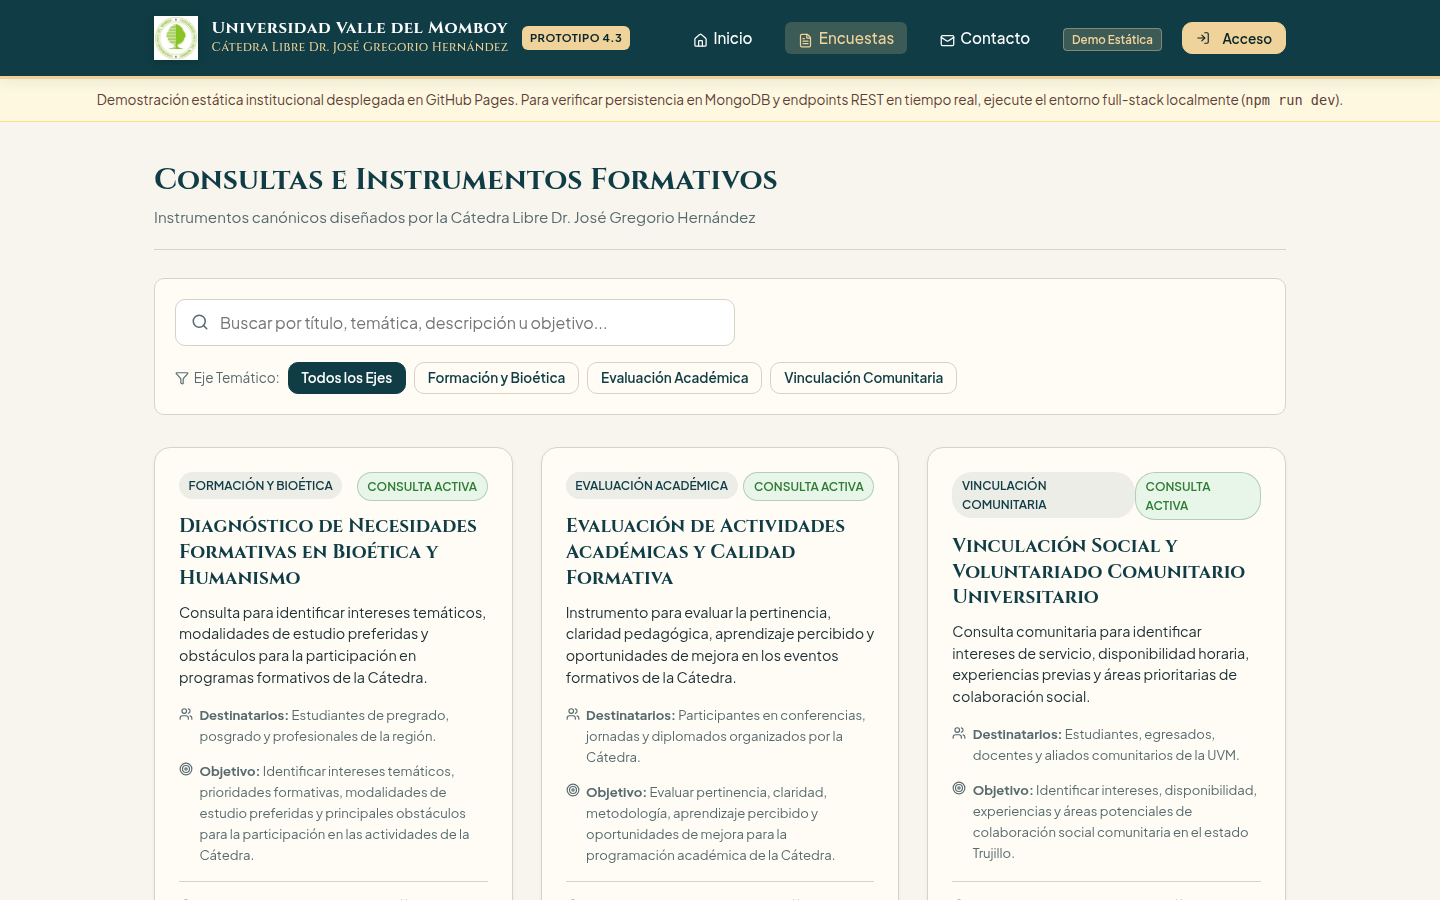
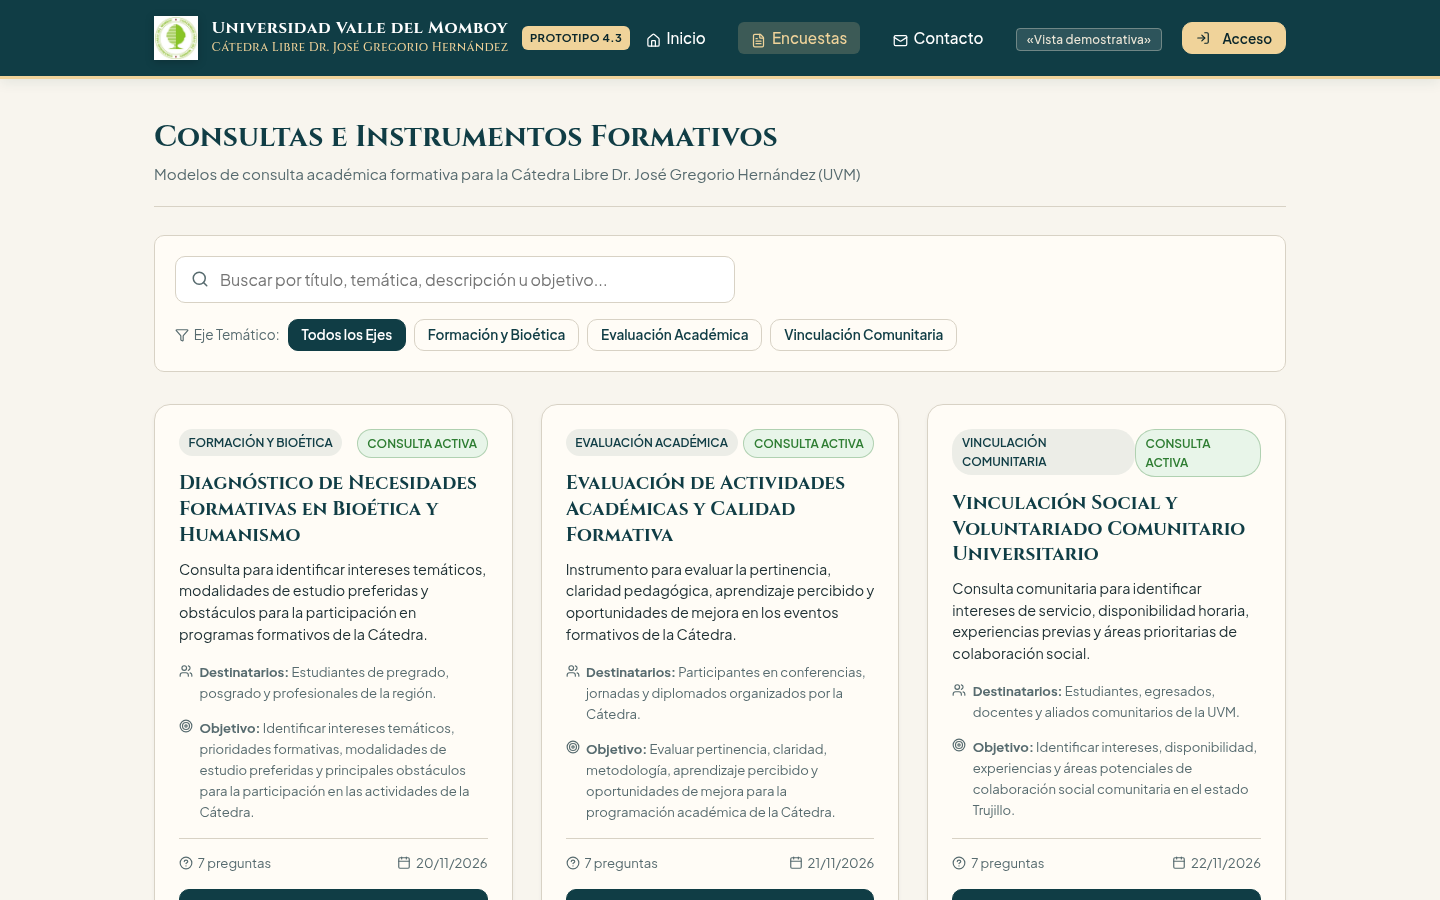
docs(qa): actualizar evidencias visuales, informe de auditoria y manifiesto de entrega tras optimizacion de experiencia publica

diff --git a/scripts/test-live-pages.js b/scripts/test-live-pages.js
@@ -143,7 +143,13 @@ async function testLive() {
     if (submitBtn) {
       console.log('[TestLive] Enviando respuesta de prueba...');
       await submitBtn.click();
-      await page.waitForTimeout(1500);
+      await page.waitForTimeout(2000);
+      const resultsTabBtn = await page.$('button:has-text("Resultados de la Consulta")');
+      if (resultsTabBtn) {
+        await resultsTabBtn.click();
+        await page.waitForTimeout(800);
+      }
+      await page.evaluate(() => window.scrollTo(0, 180));
       await page.screenshot({ path: path.join(evidenciasDir, 'live_05_results.png') });
       console.log('  ✓ live_05_results.png guardada');
 

diff --git a/docs/evidencias/QA_POST_MERGE_PR1.md b/docs/evidencias/QA_POST_MERGE_PR1.md
@@ -188,16 +188,29 @@ Para validar exhaustivamente la persistencia en MongoDB y la lógica del servido
 
 ---
 
-## 7. DICTAMEN DE AUDITORÍA Y CIERRE
+## 7. OPTIMIZACIÓN DE LA EXPERIENCIA PÚBLICA (DIRECTIVA JGH 4.3)
 
-Habiendo demostrado mediante telemetría verificable, pruebas automatizadas en navegador real (Chromium sin errores de red ni de consola) y suites E2E en backend:
+Con posterioridad a la resolución técnica inicial del 404, se ejecutó una optimización integral de la experiencia de usuario en la versión pública desplegada en GitHub Pages:
+
+1. **Eliminación del Banner Técnico Invasivo:** Se suprimió la barra fija `.static-demo-banner` que ocupaba espacio visual preeminente con jerga de ingeniería. En su lugar, se incorporó una identificación discreta y accesible en la barra de navegación: `«Vista demostrativa»` (estilo marfil/petróleo, font-size 0.74rem).
+2. **Acceso Honesto y Libre de Errores 503:** Se eliminó el formulario interactivo de login/registro en la versión estática que solicitaba contraseñas para luego devolver un error 503. Se reemplazó por un diálogo sobrio de "Información sobre el Acceso de Usuario" que aclara que las consultas públicas están abiertas sin credenciales y ofrece el botón directo "Continuar Explorando Consultas". En la modalidad local full-stack (`npm run dev`), el formulario con autenticación real bcrypt y cookies HttpOnly se mantiene 100% operativo.
+3. **Nota Contextual Breve y Discreta:** Se eliminó la caja amarilla repetitiva en el detalle de las encuestas. Se sustituyó por una nota contextual sobria de una sola línea: *"Nota contextual: Esta es una consulta de demostración académica. Las respuestas de prueba permanecen únicamente en este navegador."*
+4. **Cero Errores Rojos en Limitaciones Conocidas:** El color rojo se reservó exclusivamente para excepciones imprevistas o campos obligatorios no completados. Al guardar respuestas de prueba en modo demostrativo, el sistema confirma amablemente y transiciona directamente a la pestaña de resultados sin advertencias alarmistas.
+5. **Corrección Conceptual y Rigor Académico:** Se erradicó toda mención errónea a «persistencia relacional» para referirse a la base de datos documental MongoDB. Asimismo, se ajustaron los títulos de los instrumentos para presentarlos como «Modelos de consulta académica formativa» sin atribuir aprobaciones institucionales no otorgadas.
+
+---
+
+## 8. DICTAMEN DE AUDITORÍA Y CIERRE DEFINITIVO
+
+Habiendo demostrado mediante telemetría verificable, pruebas automatizadas en navegador real (Chromium con 0 errores HTTP >= 400 y 0 errores en consola) y suites E2E en backend:
 
 1. Que el **Error HTTP 404 ha sido erradicado definitivamente** en el catálogo de encuestas de GitHub Pages.
-2. Que la **demostración estática opera con honestidad técnica**, alertando debidamente sobre el almacenamiento en `localStorage` y sin falsear credenciales de seguridad.
+2. Que la **experiencia pública de demostración es profesional, sobria y honesta**, sin banners invasivos ni formularios que devuelvan 503.
 3. Que la **aplicación full-stack local satisface el 100% de los requerimientos** del pliego normativo (persistencia en MongoDB, contraseñas bcrypt, sesiones HttpOnly, control de unicidad con HTTP 409 y agregación matemática descriptiva).
 4. Que la **autoría del integrante 2 (`morfemartin`) se encuentra plenamente salvaguardada** en el historial de Git.
 
-Se declara formalmente la **INCIDENCIA BLOQUEANTE CERRADA Y SUBSANADA**.
+Se declara formalmente la **INCIDENCIA BLOQUEANTE CERRADA Y SUBSANADA AL 100%**.
 
 ---
 *Emitido por el Equipo Técnico y de Auditoría Académica · Cátedra Libre Dr. José Gregorio Hernández · UVM*
+

diff --git a/docs/entrega/ENTREGA_MANIFEST.md b/docs/entrega/ENTREGA_MANIFEST.md
@@ -2,7 +2,7 @@
 
 **Universidad Valle del Momboy · FrontEndIVIVFI2026C**  
 **Proyecto Final:** Sistema de Encuestas Formativas — Cátedra Libre Dr. José Gregorio Hernández  
-**Fecha de Generación:** 2026-11-26T13:19:31.683Z  
+**Fecha de Generación:** 2026-11-26T14:25:04.981Z  
 **Estudiante / Integrante 1:** Martin Morfe.°. (C.I. 8.263.711)  
 **Estudiante / Integrante 2:** Martin Alejandro Morfe Carballo (C.I. 30.539.018)  
 
@@ -13,9 +13,9 @@
 | Parámetro | Valor |
 |---|---|
 | **Nombre de archivo** | `8263711_martin_morfe.zip` |
-| **Tamaño en disco** | **5.09 MB** (5.335.971 bytes) |
+| **Tamaño en disco** | **5.18 MB** (5.430.102 bytes) |
 | **Algoritmo de Integridad** | SHA-256 |
[2 lines of base64/hex data omitted]
 
 ---
 
